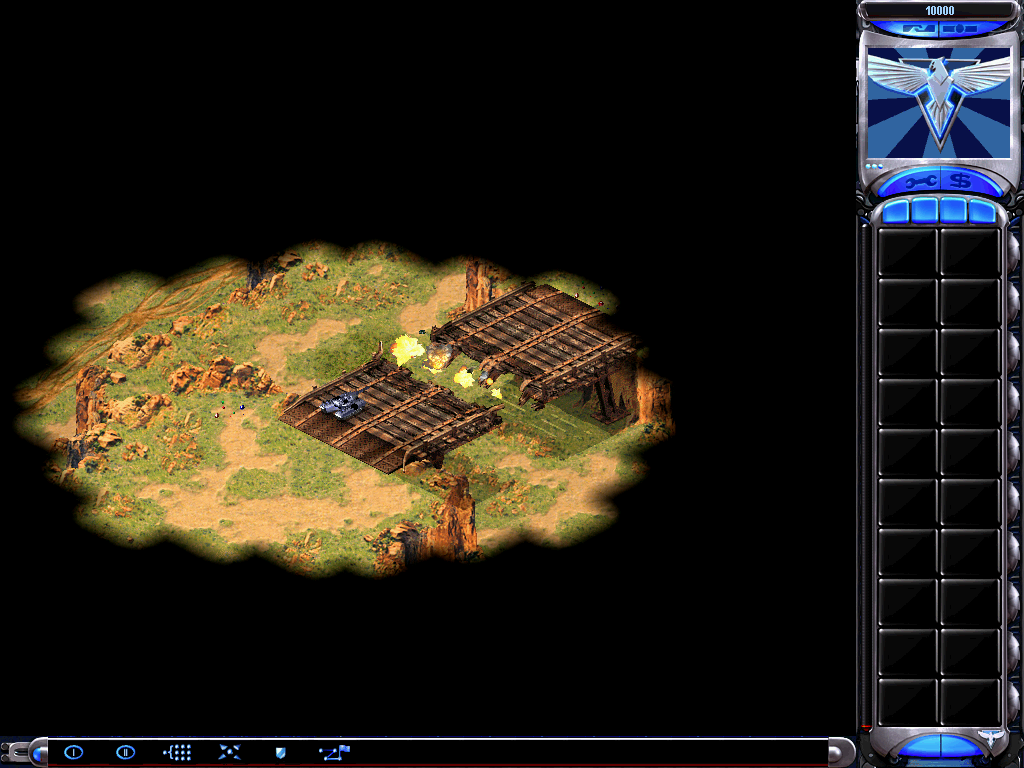
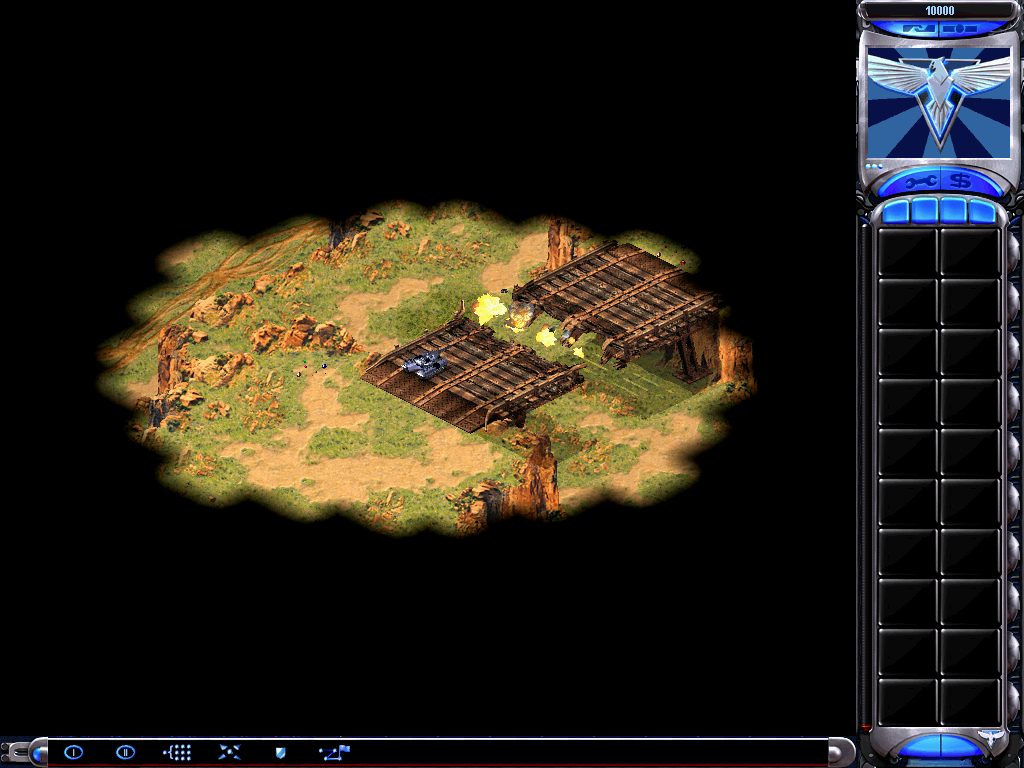
docs: record final bridge debris production validation
Record9535 retail lib passes, Clippy success, normal release load and collapse witness, two200-frame restored continuations, and final GPU captures. Pin actual owned executable hashes and preserve the distinction between original native comparisons, Rust regressions and rendered production evidence.

Changed region(s): [[0.0, 0.25, 0.75, 0.75]]

diff --git a/docs/research/bridge-debris.md b/docs/research/bridge-debris.md
@@ -226,6 +226,7 @@ python -m tools.rules_oracle.anim_image --check
 python -m tools.rules_oracle.bridge_anim_inputs --check
 python -m tools.rules_oracle.bridge_landing_inputs --check
 python -m tools.rules_oracle.bridge_child_sound --check
+python -m tools.spatial_oracle.radiation_damage_boundary --check
 python -m tools.bridge_click_state_oracle --check
 python -m tools.spatial_oracle.bridge_debris_producer --check
 python -m tools.spatial_oracle.bridge_debris_flight --check
@@ -242,9 +243,9 @@ python -m tools.spatial_oracle.terrain_strength --check
 | Actual bridge producer and constructors | [Producer corpus](../../tools/spatial_oracle/bridge_debris_producer.json), original47DD70/AnimType ctor/AnimClass ctor/immediate Start; all15 metallic slots exercised. ART scalar/image-header inputs supplied from production export and independently established by the original full ART/image-reader corpus. | Production-reader producer/RNG comparisons and shared death-loop12 rows passed, including seed5 selecting `D`. |
 | Primary flight, empty contact lists, landing and cleanup | [32 joined cases](../../tools/spatial_oracle/bridge_debris_flight.json), original primary AI/Bounce/result handling, dry/water/deck landing, area bridge admission and native drain; [explicit boundaries](../../tools/spatial_oracle/bridge_debris_flight.md). Native `--check` passed. | `native_bridge_producer_primary_flight_landing_and_rng_continuation` passed all32 histories through final physical removal. The separate `debris_contact_matches_original_tree_damage_gates_radius_and_retirement` passed its19 covered contact cases. |
 | Terrain retained-coordinate rendering | [82 native rows](../../tools/spatial_oracle/terrain_render.json), original Render projection and ordinary static DrawIt through the shape-call boundary, before pixels. | `terrain_retained_xyz_projection_and_piece_z_match_original_render` uses the production projection and static-pair helper, compares draw points with explicit world/dirty-rectangle translation and exact body/shadow gradients and Z-adjust. All82 rows passed. |
-| Mixed scheduler and persistence | Native Load reseeds Scenario RNG; the primary-only native corpus does not establish whole-world scheduling. | [Retail force-fire example](../../examples/bridge_forcefire.rs) follows ordinary Hills collapse for 200 further frames. The [ignored production test](../../src/sim/combat/bridge_live_chain_tests.rs) restores live debris through the production snapshot/fixup APIs twice and compares both loaded continuations for 200 frames. The release example passed on candidate `04fe00c8`: collapse at frame7327 after121 shells; all3 observed DBRIS Bouncers moved and were removed by frame7385. The next200 frames constructed26 SMOKEY2,1 TWLT026 and2 TWLT036 follow-ups; final state hash `24fa6d7ffe5651f8`. This seed did not select unread `D`; the native/focused cases cover it. Log `/tmp/bridge-debris-release-chain.log`. The ignored retail restore test passed in160.75s on the merged candidate: all3 restored Bouncers flew and expired; two validated restores matched all200 state hashes, final `dd1d9c4dc8a09218`. Log `/tmp/bridge-debris-retail-restore.log`. This is production composition, not native whole-frame proof. |
-| Retail loading and rendering | AssetManager/ART/SHP production inputs are recorded in [retail input export](../../tools/spatial_oracle/bridge-retail-anim-inputs.json); no native pixel comparator. | Owner to insert release map-load result, visible collapse evidence and artifact paths. |
-| PR candidate checks | No claim from a parser pass alone. | Retail-required full `cargo test -p vera20k --lib` on `4682eb5b`: **9521 passed, 0 failed, 147 ignored** (60.99s), including the restore prerequisites below. Log `/tmp/bridge-debris-full-lib-final.log`. Earlier snapshot-version and atlas test expectations were corrected before this clean run. Focused persistence63, app current-owner2 and snapshot94 checks also passed; the ignored headless retail loader check passed two Dustbowl loads and30 frames. Final Clippy, corrected native-input focused checks and the fresh critic remain pending. |
+| Mixed scheduler and persistence | Native Load reseeds Scenario RNG; the primary-only native corpus does not establish whole-world scheduling. | Final release [force-fire witness](../../examples/bridge_forcefire.rs) on `822161c1` collapsed the exact retail Hills bridge at frame7327 after121 Cannon shells. All3 observed DBRIS Bouncers moved and were removed by frame7385; the next200 frames constructed26 SMOKEY2,1 TWLT026 and2 TWLT036, final state hash `818d1342a839bdbe`. Log `/tmp/bridge-debris-release-witness-822161c1.log`. The explicitly enabled [production restore test](../../src/sim/combat/bridge_live_chain_tests.rs) passed in188.96s from the retained final test executable: all3 restored Bouncers flew and expired, and two validated restores matched all200 state hashes, final `219282f5d7a0f8dd`. Log `/tmp/bridge-debris-restore-822161c1.log`. This is production composition, not native whole-frame proof. |
+| Retail loading and rendering | Independently established ART/SHP inputs plus actual AssetManager/map/renderer integration; no native pixel comparator. | Normal release game and example built successfully from the owned `822161c1` source (1m04s). The ordinary app loaded the exact retail map, accepted the fresh collapse save through its in-game browser, and captured [explosions](bridge-debris-captures/collapse.png) and [flying debris/smoke](bridge-debris-captures/flight.png) through normal Shift+S. [Metadata](bridge-debris-captures/metadata.json) pins binary, save and pixel-identical PCX/PNG hashes. |
[1 lines of base64/hex data omitted]
 
 The earlier research266-row fixture supplied20 metallic types,16-frame images and
 three synthetic explosions. It established only that supplied producer/constructor
@@ -315,9 +316,9 @@ also adds missing unspawned rule names before building type handles, preserving
 every existing saved string ID. The headless loader now performs the app's
 pre-launch rule-name and handle binding. Separate regressions first reproduced
 foreign explosion IDs and missing unspawned type identities through the real
-load transaction. The clean full library run includes these fixes; focused persistence63,
-current-owner2 and snapshot94 regressions also passed. Final release and visible
-validation remain pending.
+load transaction. The clean full library run on `822161c1` includes these fixes; focused
+persistence63, current-owner2 and snapshot94 regressions also passed. The final
+release, production restore and visible captures above exercise the corrected route.
 
 Saved house color schemes and separate display names remain a required later
 persistence mechanism: they are absent from the saved House/session state, so
@@ -337,22 +338,22 @@ need their own complete implementation; routing the shell button through fresh
 scenario construction would not establish resume parity. The existing
 [shell evidence](shell/2026-09-25-load-saved-game-evidence.md) records this boundary.
 
-### First successful ordinary release capture
+### Ordinary release capture
 
-The release build at `4682eb5b` restored the saved current House and displayed
-the bridge world correctly. The in-game load browser accepted the exact-map
-collapse save, and the normal Shift+S command captured the GPU output at
-[collapse](bridge-debris-captures/collapse.png) and during
-[debris flight](bridge-debris-captures/flight.png). The latter shows the moving
-chunk and its smoke trail after the explosion frames.
-[Capture metadata](bridge-debris-captures/metadata.json) pins the executable,
+The final normal release built from `822161c1` restores the saved current House
+and displays the bridge world correctly. The in-game load browser accepted
+`bridge-debris-candidate-20260926-172204.bin`, generated from the exact map by the
+release witness. Normal Shift+S captured the GPU output during
+[collapse explosions](bridge-debris-captures/collapse.png) and
+[debris flight](bridge-debris-captures/flight.png). The latter shows a moving
+chunk and smoke trail across the destroyed section. The executable SHA-256 is
[1 lines of base64/hex data omitted]
+[Capture metadata](bridge-debris-captures/metadata.json) also pins the save,
 map/rules hashes and pixel-identical PCX-to-PNG conversion. This is a production
-rendering witness, not a native pixel comparison. The saved MCV is at (136,79);
-H centers it, then normal northwest and west edge scrolling reaches the tank at
-(64,72). The camera stays in place when the collapse save is loaded again.
+rendering witness, not a native pixel comparison.
 
-Dependency checks following this capture found three required corrections now
-in progress: tactical picking retained map-load bridge flags after collapse;
-animation destruction stopped one-shot Reports instead of releasing them; and
-the common Verses reader's rounding changed integer HE damage for several armor
-types. These require final checks and a rebuilt release before publication.
+The saved MCV is at (136,79); H centers it. With the game window raised, normal
+northwest edge scrolling reaches the tank near (64,72); selecting it and pressing
+F centers the bridge view. The camera stays in place when the collapse save is
+loaded again. The final captures include the live inverse, sound-release and
+native-input corrections and the latest integrated Ground-key implementation.
